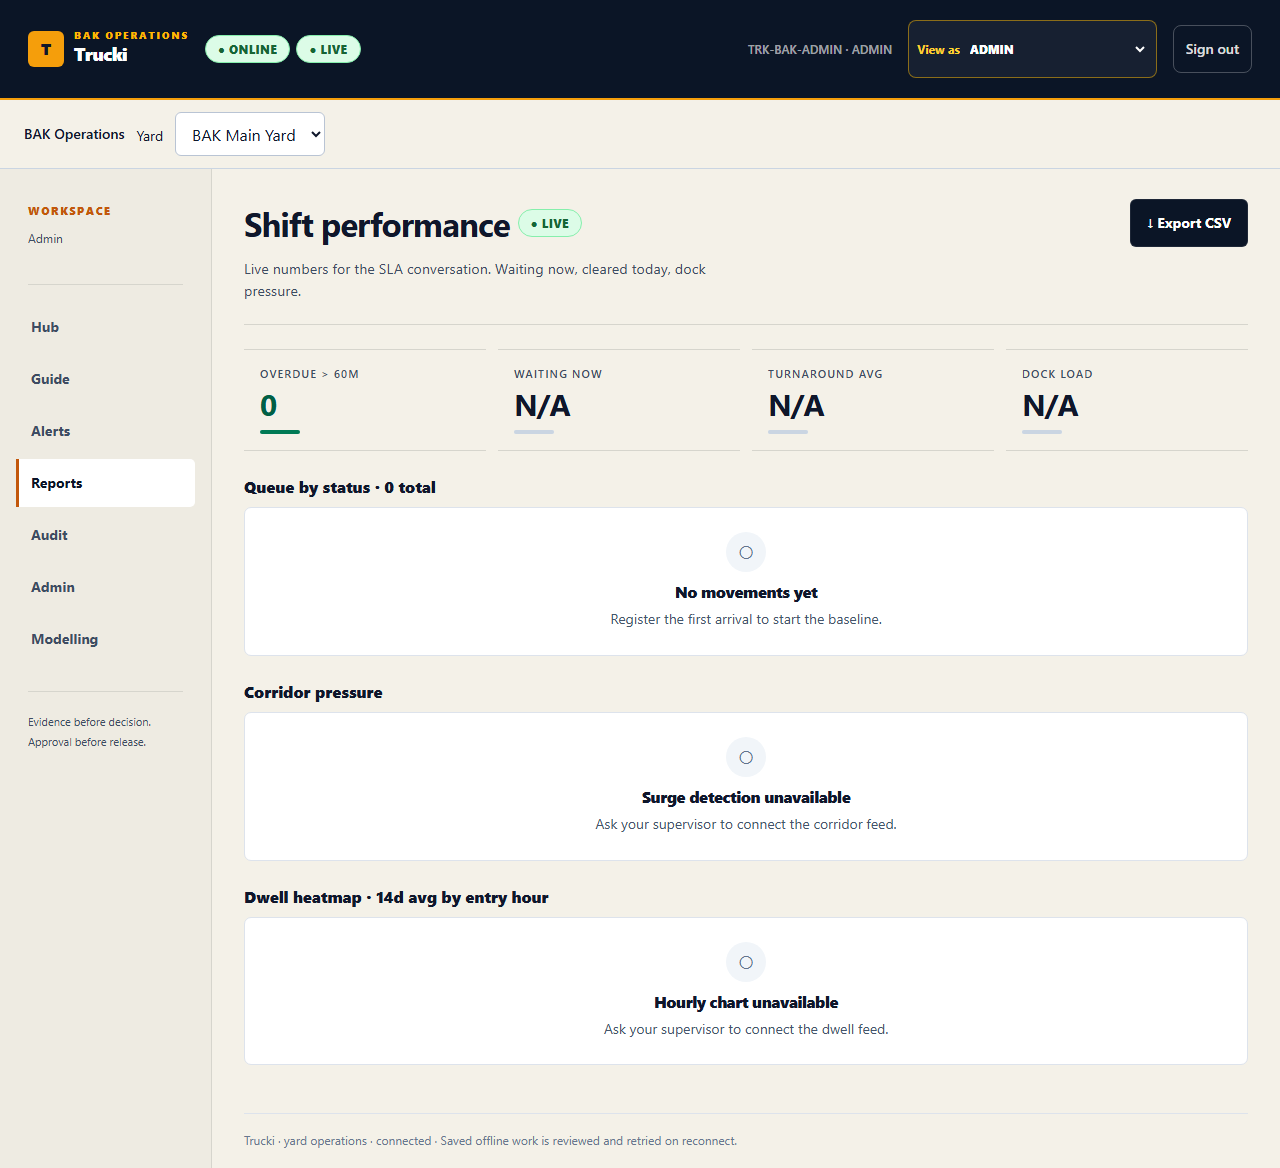
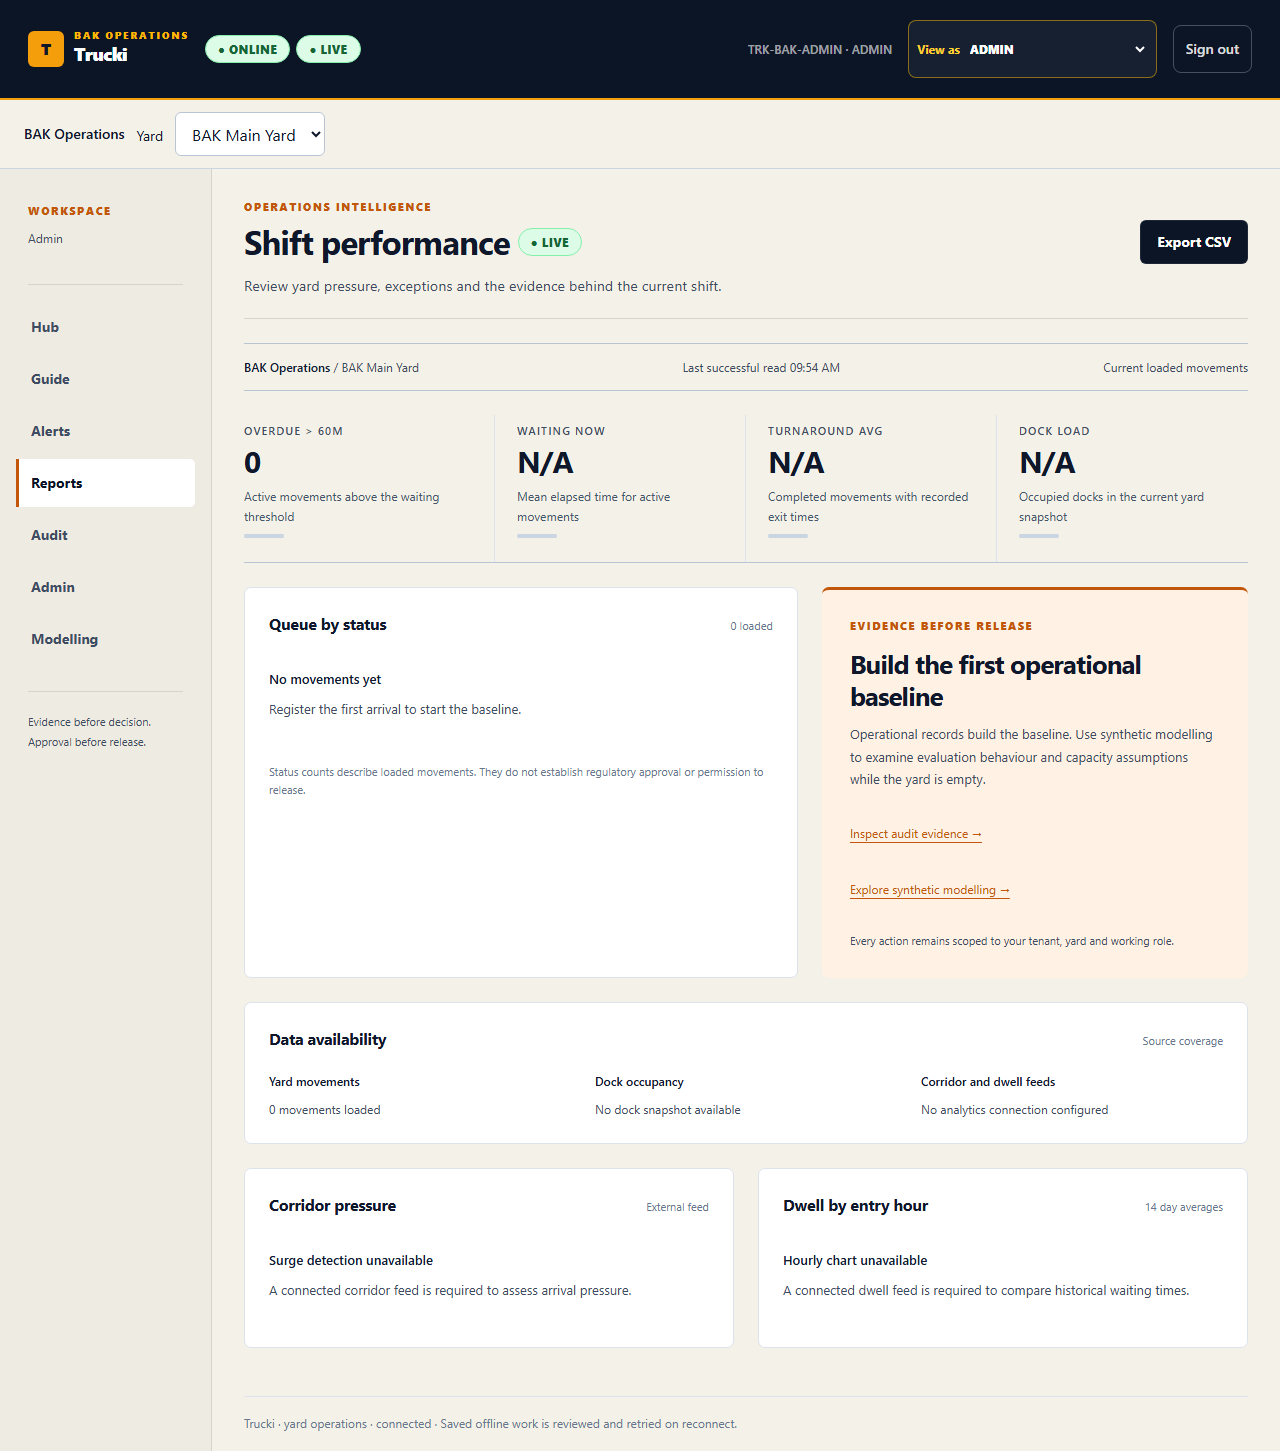
Record NetOne Reports production review evidence

diff --git a/web/e2e/prod-admin.spec.ts b/web/e2e/prod-admin.spec.ts
@@ -30,6 +30,8 @@ test('live ADMIN PIN can switch working roles and return without changing identi
   await page.getByLabel('Switch working role').selectOption('ADMIN')
   await expect(page).toHaveURL(/\/reports$/)
   await expect(page.getByLabel('Switch working role')).toHaveValue('ADMIN')
+  await expect(page.getByText(/Last successful read/)).toBeVisible()
+  await expect(page.getByRole('alert')).toHaveCount(0)
   await page.screenshot({ path: '../docs/design/bak-live-admin.png', fullPage: true })
   await page.getByRole('button', { name: 'Sign out', exact: true }).click()
   await expect(page.getByRole('heading', { name: 'Gate sign-in' })).toBeVisible()

diff --git a/docs/PRODUCTION_INTERFACE_VALIDATION.md b/docs/PRODUCTION_INTERFACE_VALIDATION.md
@@ -78,3 +78,10 @@ Production result: all 10 browser tests passed in 36.3 seconds against https://t
 The global authenticated 120/hour DRF throttle was incompatible with live dashboard polling. Operational authenticated requests now use a separate operational_user bucket at 600/minute. Anonymous operational requests use 60/minute. Credential endpoints use independent 20/hour identity and 120/hour IP budgets, shared across credential endpoints for the IP budget; staff ID normalization prevents alternate formatting from bypassing identity limits. Existing specialized trip/public booking limits remain in place. The new operational bucket does not inherit the exhausted hourly user bucket.
 
 Backend commit 478cc1ef65f84c115fca131b250b5c96cff341c7 deployed live as dep-db2a87nlk1mc738mdfn0. All 22 auth/tenancy checks and three throttle regressions passed. Regressions verify 125 consecutive identity reads despite exhausted old quota, shared credential IP limits with Retry-After, and PIN identity limits across changing IPs. All 10 production browser checks passed in 36.7s after deployment, including real admin Reports landing, role switching, refresh and synthetic model export.
+
+
+## NetOne-inspired Reports review, 6 October 2026
+
+Reviewed the actual NetOne portfolio implementation and applied its metric strip, distribution/review pairing, source coverage and evidence-navigation patterns to Trucki Reports. Source and adaptation notes are in NETONE_DESIGN_REFERENCE.md. Existing tenant/yard context and role gates remain authoritative. Build and lint passed; all 18 practice journeys passed across the suite and targeted selector corrections. Desktop/mobile screenshots were inspected at 1440px and 390px.
+
+Frontend application commit 73cbb04 deployed READY as dpl_33xa9FckrERM2pEcuRnoKSmHAYWb and promoted to https://trucki-two.vercel.app. All 10 production browser tests passed in 41.6s, including real Reports data reads, review/data availability panels, admin role switching and model export. The final admin screenshot waits for a successful operational read after returning from Dispatch. No operational movement, inspection, approval or release records were created by these interface checks.

diff --git a/docs/README.md b/docs/README.md
@@ -4,6 +4,7 @@ Current direction: renewed BAK INTEL work, grounded in the existing yard applica
 
 | Document | Authority/status |
 | --- | --- |
+| [NetOne design reference](NETONE_DESIGN_REFERENCE.md) | Reviewed source patterns and Reports adaptation with desktop/mobile validation |
 | [Tenant workspaces and synthetic modelling](TENANT_MODELLING.md) | Implemented tenant scope, reproducible evaluator fixtures and capacity model assumptions |
 | [User stories and delivery backlog](BAK_USER_STORIES.md) | Draft stories, acceptance criteria, implementation gaps, dependencies and PRD/SAD/brief traceability |
 | [User-story flow test results](USER_STORY_FLOW_TEST_RESULTS.md) | Real browser/API journeys, story coverage, production blockers and test-driven fixes |
